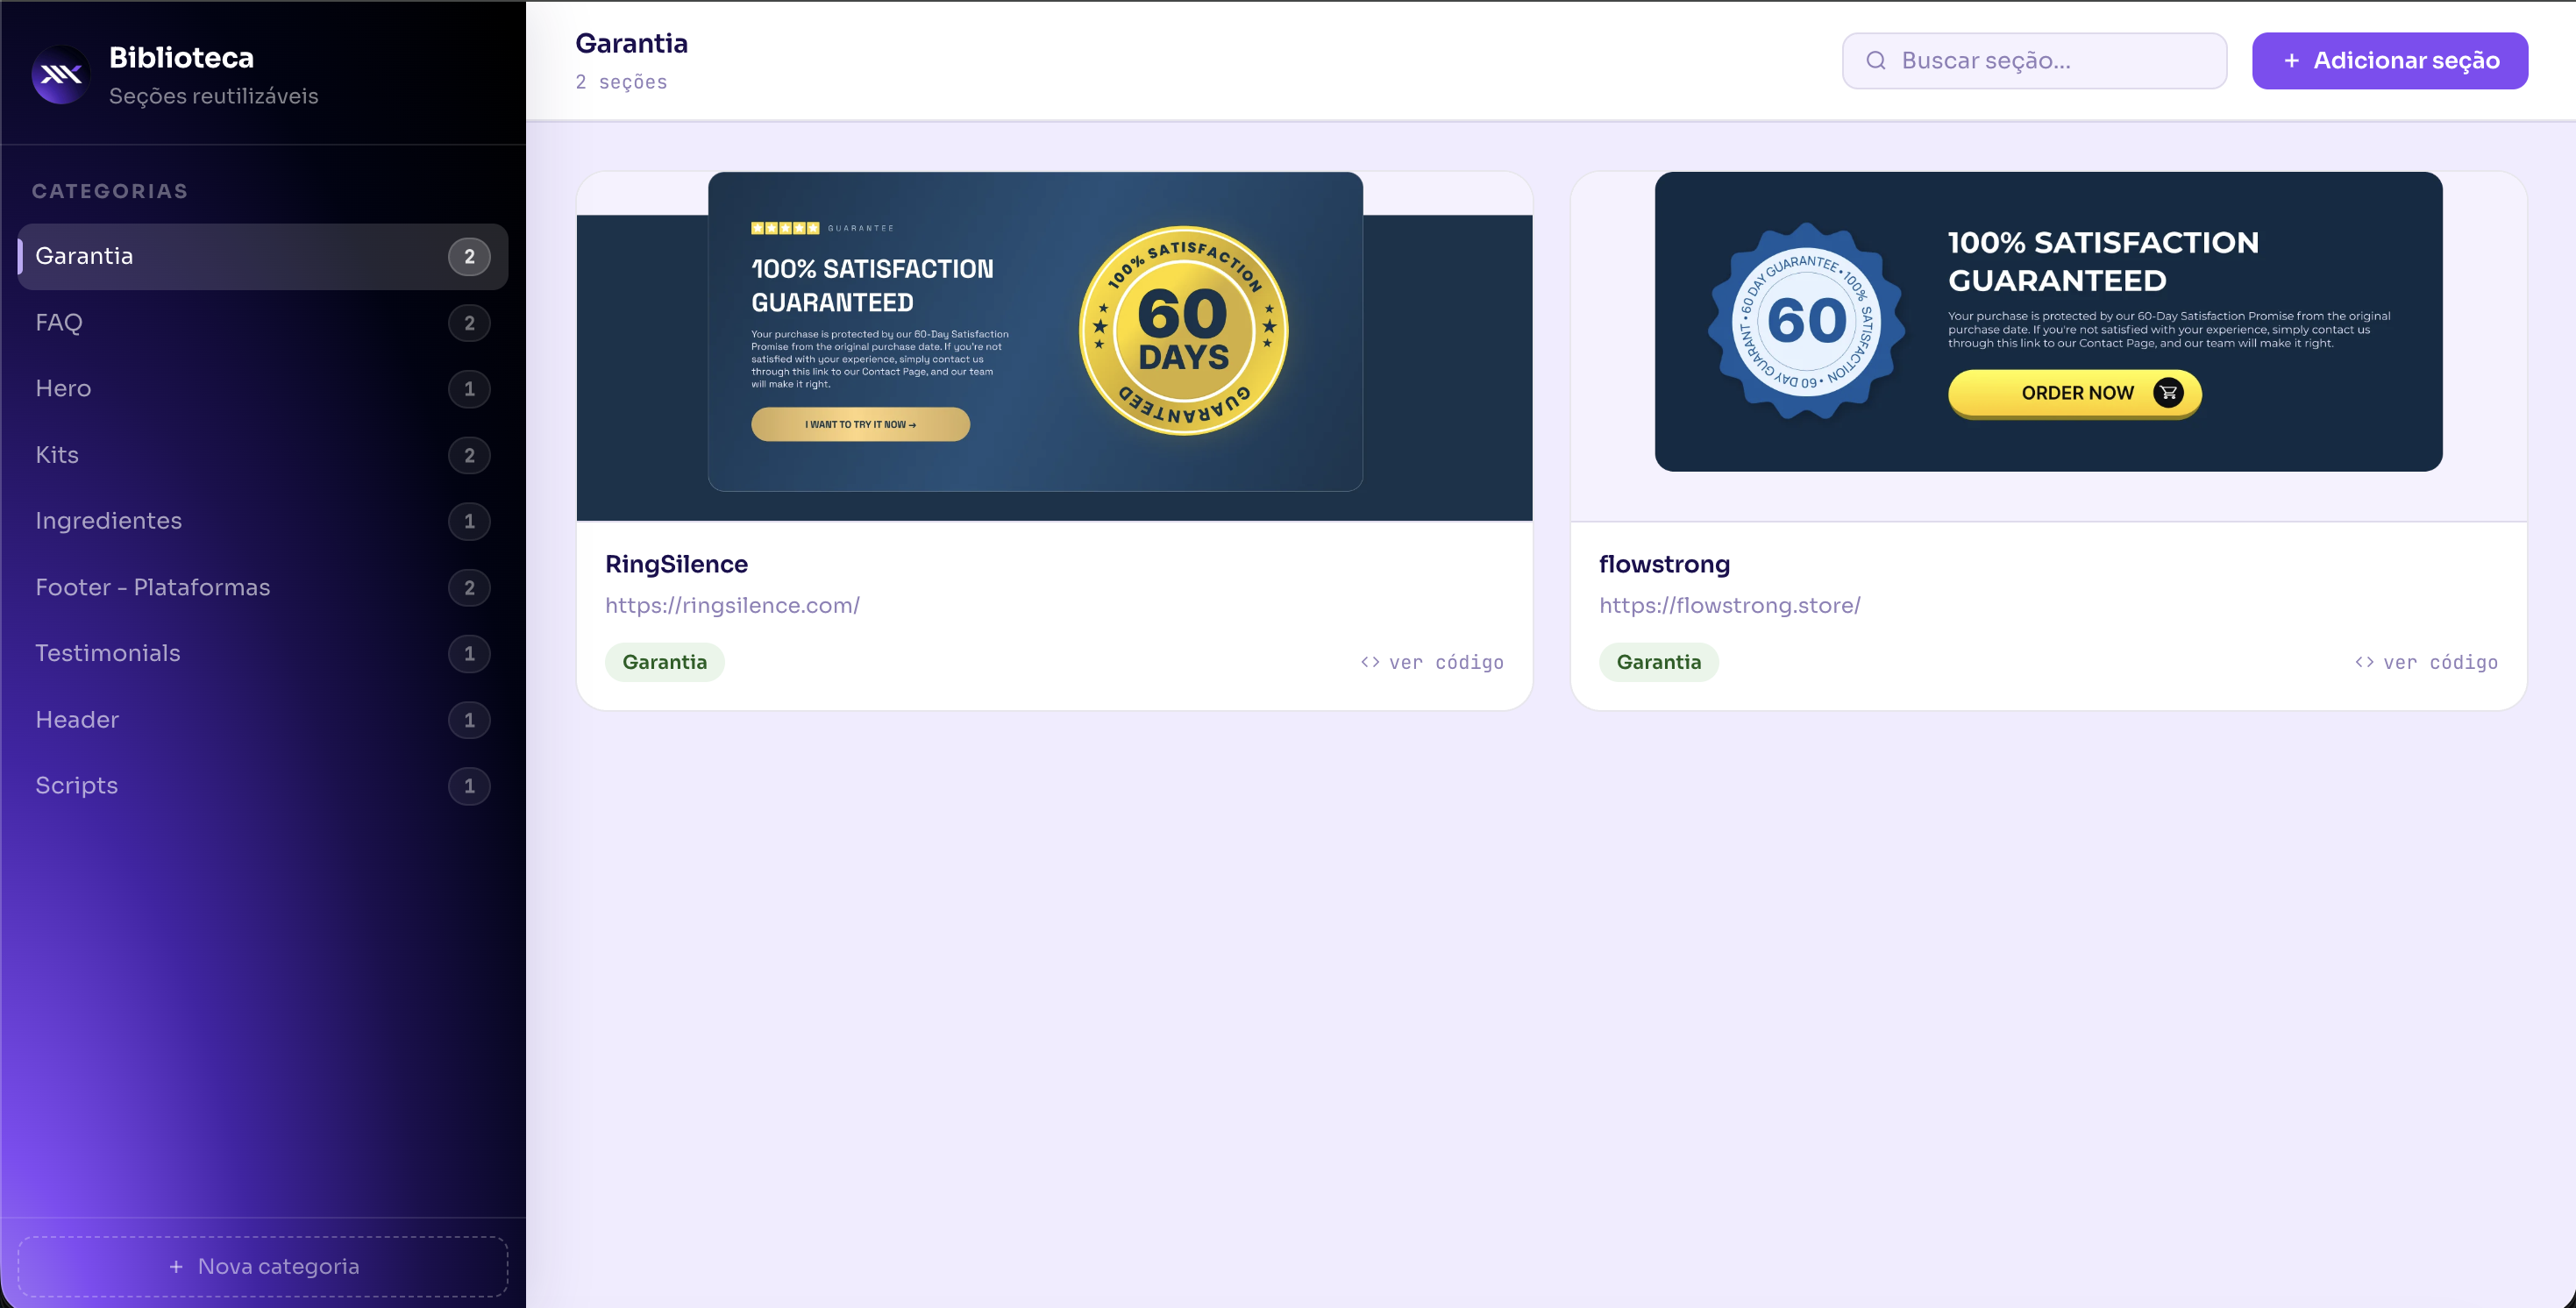
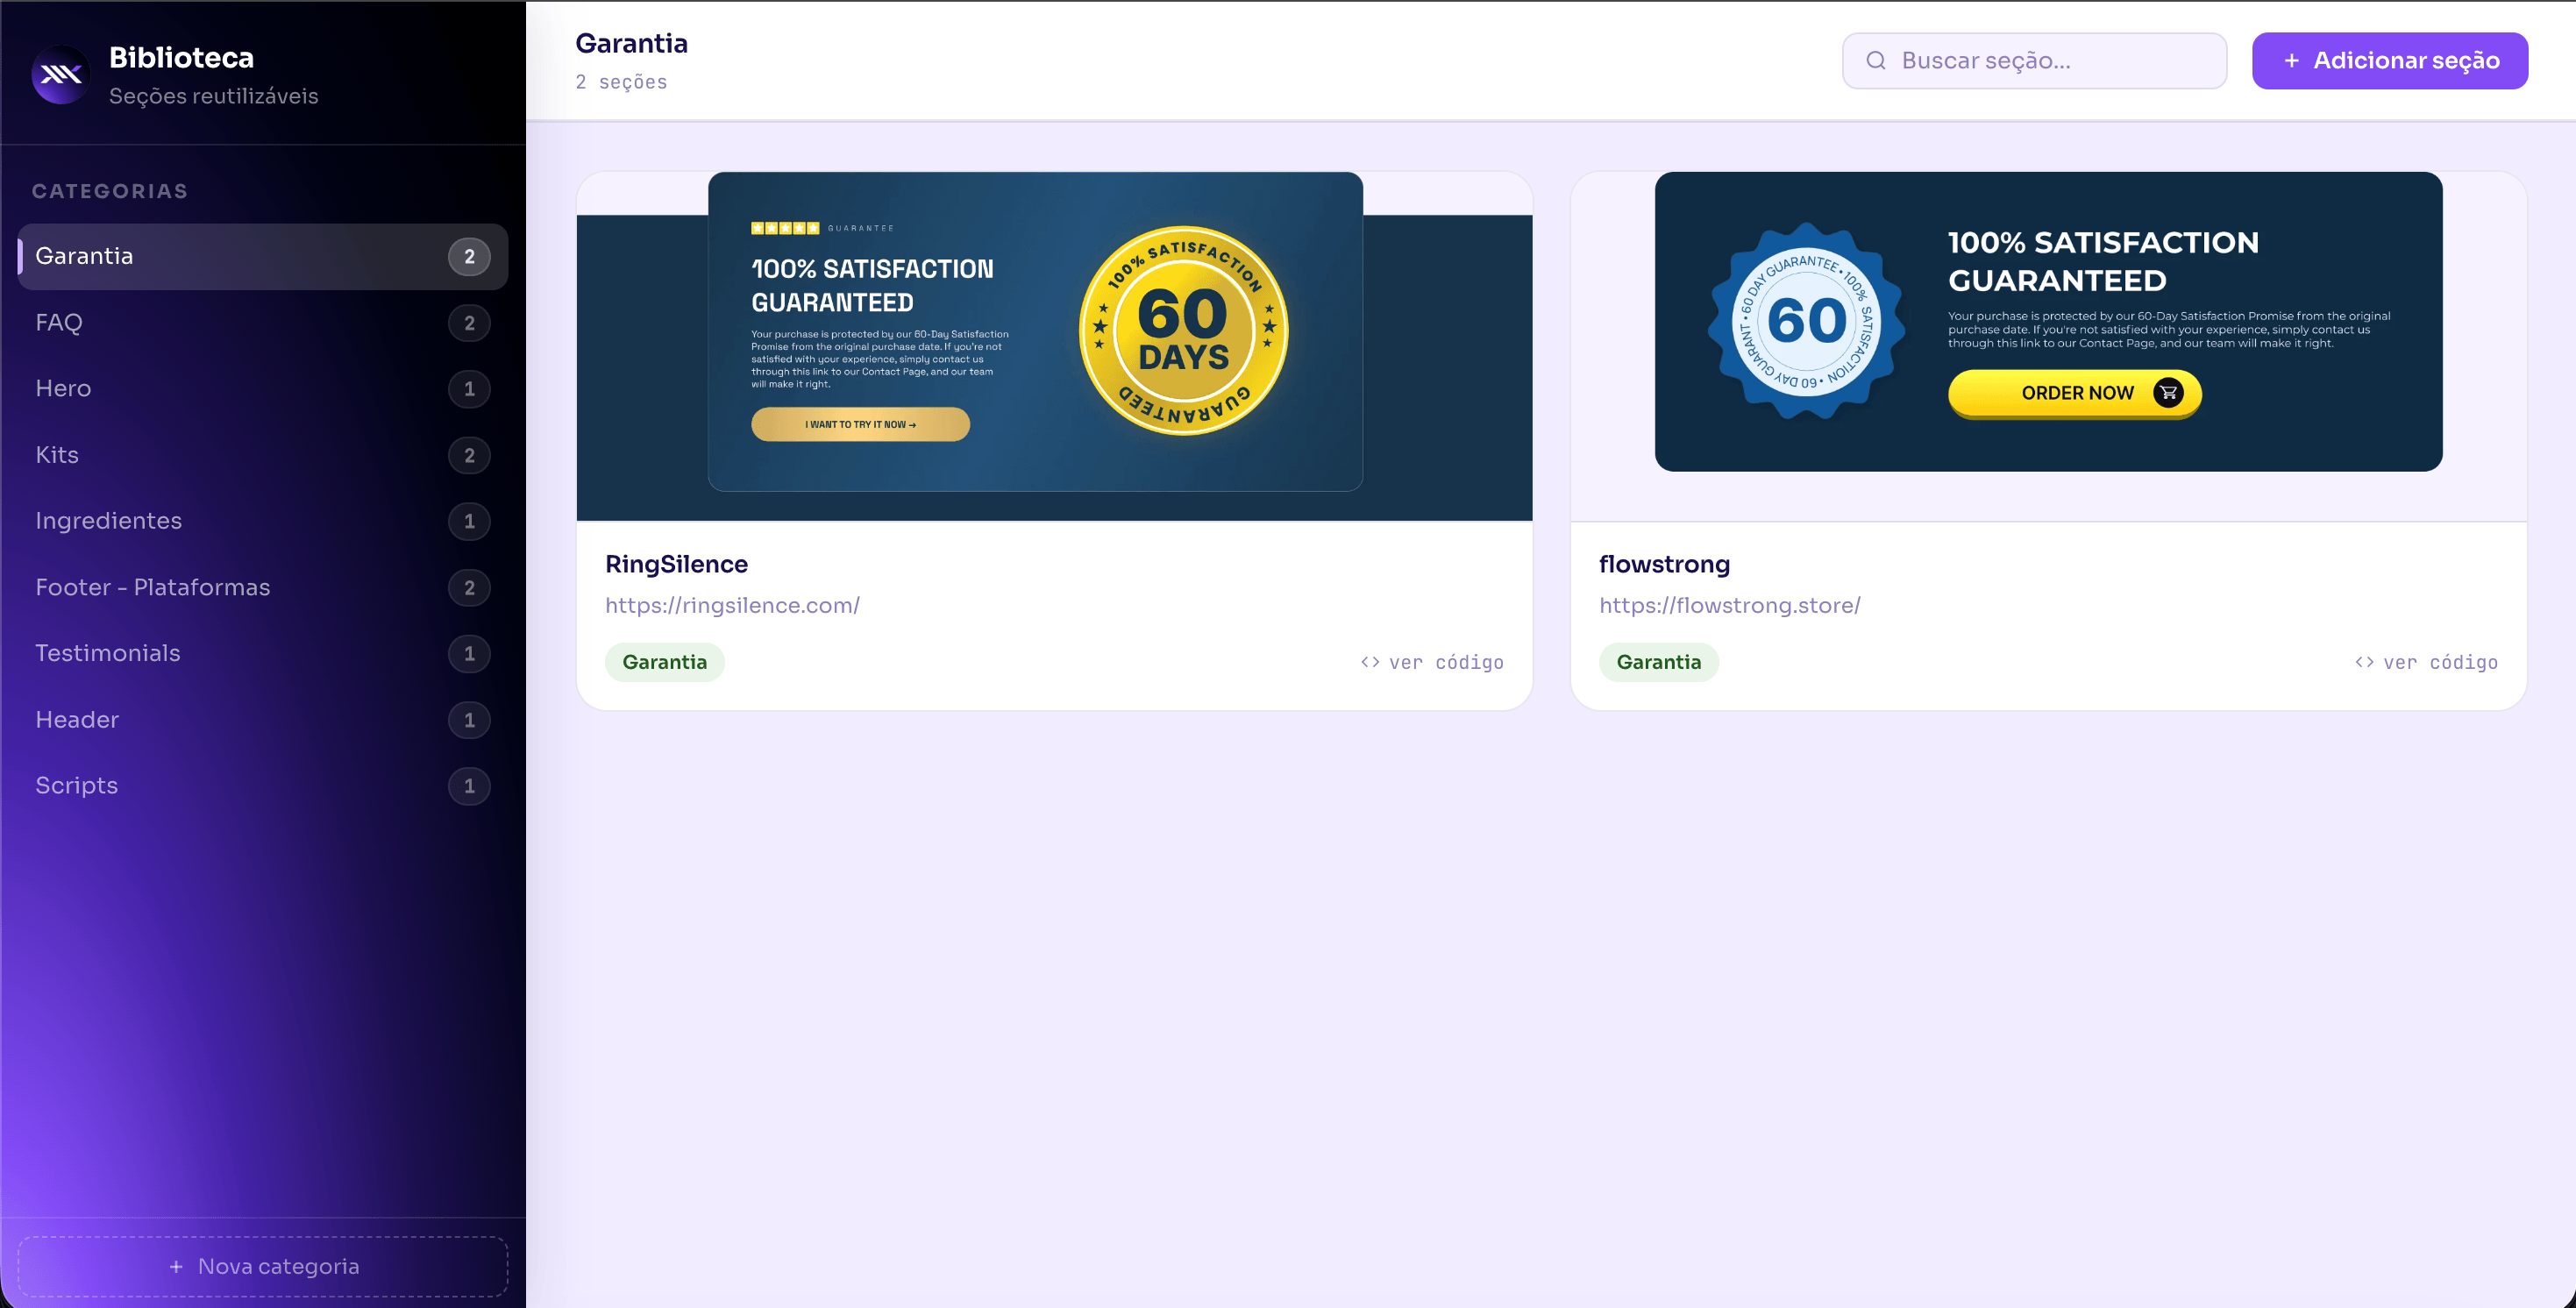
add sistema de ia

Changed region(s): [[0.6504, 0.1542, 0.8673, 0.3391], [0.4027, 0.1542, 0.4956, 0.3391]]

diff --git a/projetos/devscout.html b/projetos/devscout.html
@@ -1,0 +1,90 @@
+<!doctype html>
+<html lang="pt-BR">
+  <head>
+    <meta charset="UTF-8" />
+    <meta name="viewport" content="width=device-width, initial-scale=1.0" />
+    <link rel="icon" type="image/png" sizes="16x16" href="../assets/img/favicon.png" />
+    <title>DevScout | Emilly Miller</title>
+    <link rel="preconnect" href="https://fonts.googleapis.com" />
+    <link rel="preconnect" href="https://fonts.gstatic.com" crossorigin />
+    <link
+      href="https://fonts.googleapis.com/css2?family=Urbanist:wght@600;700&family=DM+Sans:wght@300;400;500;700&display=swap"
+      rel="stylesheet"
+    />
+    <link rel="stylesheet" href="../assets/css/projeto.css" />
+  </head>
+  <body>
+    <header class="pp-topbar">
+      <a class="pp-back" href="../index.html#servicesCarousel">
+        <svg width="18" height="18" viewBox="0 0 24 24" fill="none" aria-hidden="true">
+          <path d="M15 18L9 12L15 6" stroke="currentColor" stroke-width="2"
+            stroke-linecap="round" stroke-linejoin="round" />
+        </svg>
+        Voltar aos projetos
+      </a>
+      <a class="pp-brand" href="../index.html">
+        <img src="../assets/img/favicon.png" alt="EM Logo" />
+        Emilly Miller
+      </a>
+    </header>
+
+    <section class="pp-hero pp-wrap">
+      <span class="pp-eyebrow">Inteligência Artificial • Arquitetura Multi-Agente</span>
+      <h1 class="pp-title">DevScout 🐙</h1>
+      <p class="pp-lead">
+        Assistente de pesquisa técnica com arquitetura multi-agente: em vez
+        de uma única chamada a um LLM, três agentes especializados
+        colaboram — pesquisando fontes reais na web, sintetizando uma
+        resposta estruturada e revisando o resultado antes de entregá-lo,
+        com autocorreção quando algo fica incompleto. Do zero ao deploy em
+        produção.
+      </p>
+
+      <div class="pp-tags">
+        <span class="pp-tag">Next.js</span>
+        <span class="pp-tag">TypeScript</span>
+        <span class="pp-tag">React</span>
+        <span class="pp-tag">LangGraph.js</span>
+        <span class="pp-tag">Groq</span>
+        <span class="pp-tag">Tavily</span>
+        <span class="pp-tag">Clerk</span>
+        <span class="pp-tag">PostgreSQL</span>
+        <span class="pp-tag">Drizzle ORM</span>
+      </div>
+
+      <div class="pp-actions">
+        <a class="pp-btn pp-btn--primary" href="https://devscout-multi-agente.vercel.app/"
+          target="_blank" rel="noopener noreferrer">
+          Ver site
+          <svg width="16" height="16" viewBox="0 0 18 18" fill="none" aria-hidden="true">
+            <path d="M4 14L14 4M14 4H6M14 4V12" stroke="currentColor"
+              stroke-width="2" stroke-linecap="round" stroke-linejoin="round" />
+          </svg>
+        </a>
+        <a class="pp-btn pp-btn--ghost" href="../index.html#contato">Falar comigo</a>
+      </div>
+    </section>
+
+    <section class="pp-section pp-wrap">
+      <h2 class="pp-section__title">Telas do projeto</h2>
+      <div class="pp-gallery" data-lightbox>
+        <figure class="pp-gallery__item pp-gallery__item--wide">
+          <img src="../assets/img/img1.png" alt="DevScout — assistente de pesquisa técnica multi-agente" />
+        </figure>
+      </div>
+      <div class="pp-gallery" data-lightbox>
+        <figure class="pp-gallery__item pp-gallery__item--wide">
+          <img src="../assets/img/img2.png" alt="DevScout — assistente de pesquisa técnica multi-agente" />
+        </figure>
+      </div>
+    </section>
+
+    <footer class="pp-footer pp-wrap">
+      <h2 class="pp-footer__title">Gostou desse <span>projeto</span>?</h2>
+      <p class="pp-footer__desc">Vamos conversar sobre o seu próximo.</p>
+      <a class="pp-btn pp-btn--primary" href="../index.html#contato">Entrar em contato</a>
+    </footer>
+
+    <script src="../assets/js/projeto.js"></script>
+  </body>
+</html>

diff --git a/index.html b/index.html
@@ -136,7 +136,7 @@
           <div class="hero__circle"></div>
           <img
             class="hero__photo"
-            src="assets/img/teste.svg"
+            src="assets/img/miller.png"
             alt="Emilly Miller, Front-end Developer"
           />
           <div class="hero__cta-pill">
@@ -246,11 +246,11 @@
                 </div>
               </a>-->
 
-              <a class="service-card" href="projetos/landing-pages.html">
-                <span class="service-card__title">Landing Pages</span>
+              <a class="service-card" href="projetos/devscout.html">
+                <span class="service-card__title">Sistema Multi-Agente</span>
                 <div class="service-card__media">
                   <img
-                    src="assets/img/glucooff.png"
+                    src="assets/img/devscout.png"
                     alt="Landing Pages project"
                   />
                 </div>
@@ -272,6 +272,16 @@
                 >
                 <div class="service-card__media">
                   <img src="assets/img/image.png" alt="Landing Pages project" />
+                </div>
+              </a>
+
+              <a class="service-card" href="projetos/landing-pages.html">
+                <span class="service-card__title">Landing Pages</span>
+                <div class="service-card__media">
+                  <img
+                    src="assets/img/glucooff.png"
+                    alt="Landing Pages project"
+                  />
                 </div>
               </a>
 
@@ -420,7 +430,7 @@
           <div class="hire__blob" aria-hidden="true"></div>
           <img
             class="hire__photo"
-            src="assets/img/teste.svg"
+            src="assets/img/miller.png"
             alt="Emilly, Front-end Developer"
           />
         </div>